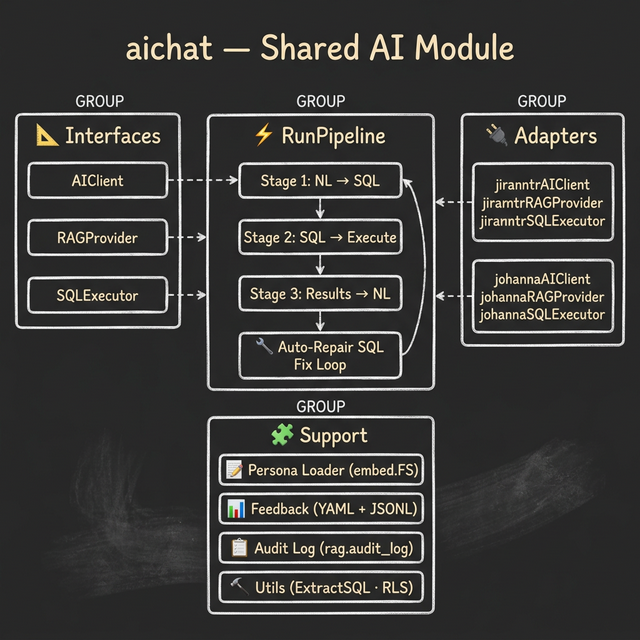
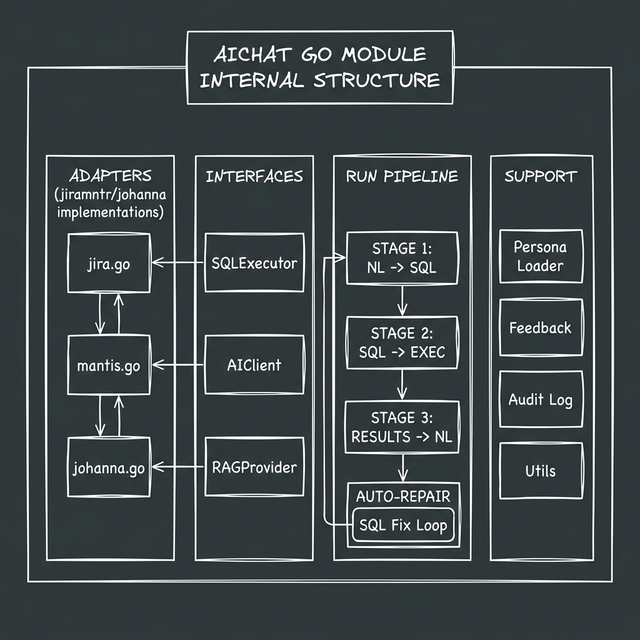
feat: reformat all architecture PNGs to premium chalkboard style and add Jira-DA platform documentation

Changed region(s): [[0.0, 0.0312, 1.0, 0.9688]]

diff --git a/docs/jira-da/jira_da.md b/docs/jira-da/jira_da.md
@@ -1,0 +1,45 @@
+# 🏗 JiraDa — Enterprise Platform
+
+> *Unified project environment for JIRA analytics, AI chat, and DWH management*
+
+## Platform Repos
+
+| Repo | Language | Description |
+|------|----------|-------------|
+| **jiramntr** | Go | JIRA DWH monitor — ETL, KPI, BI, Datagrid, Security (RLS) |
+| **johanna** | Go | AI chat persona — NL→SQL→NL, RAG, WebSocket, Feedback |
+| **mcp-forge** | Python | MCP chain builder — 7 adapters, 4 generators, Claude Teacher |
+| **aichat** | Go | Shared AI module — pipeline, types, feedback, persona |
+| **datagrid** | Go | Dynamic data grid — pivot tables, JSON catalog driven |
+| **lookin** | HTML/JS | Architecture viewer — Mermaid + PNG diagrams, drill-down |
+
+## Infrastructure
+
+| Server | Services |
+|--------|----------|
+| **sys-butalam01** (Prod) | jiramntr, johanna, mcp-forge, datagrid, lookin |
+| **sys-gpu01** (GPU) | jiramntr (Ollama inference) |
+
+## Data Sources
+
+- **JIRA Cloud API** — Issues, Worklogs, SLA Events, Comments, Users, Projects
+- **Oracle LDAP** — User directory, Org structure
+- **GitLab API** — Commits, MRs, Pipelines
+- **JobCtrl API** — Daily density, SLA data
+- **Confluence** — Documentation, Spaces
+
+## Databases
+
+| Database | Schemas |
+|----------|---------|
+| **jiramntr_db** | `dwh` (Star Schema, SCD2), `ext` (staging), `meta` (audit, MCP), `oltp` (FDW → Oracle) |
+| **ragdb** | `rag` (embeddings, knowledge, audit_log), `mcp` (knowledge, feedback, teaching) |
+
+## DevOps
+
+- **GPG Vault** (AES256) — `vault.sh lock|unlock|verify|diff`
+- **Environment switching** — `switch_env.sh` (auto-detect hostname)
+- **Deploy scripts** — per-server deployment with `sshpass`
+- **systemd timers** — Claude Teacher, embedding pipeline
+- **GitHub Actions** — CI across all repos
+- **Project Board** — Unified tracking via `/commit-all`, `/new-issue`, `/deploy`
